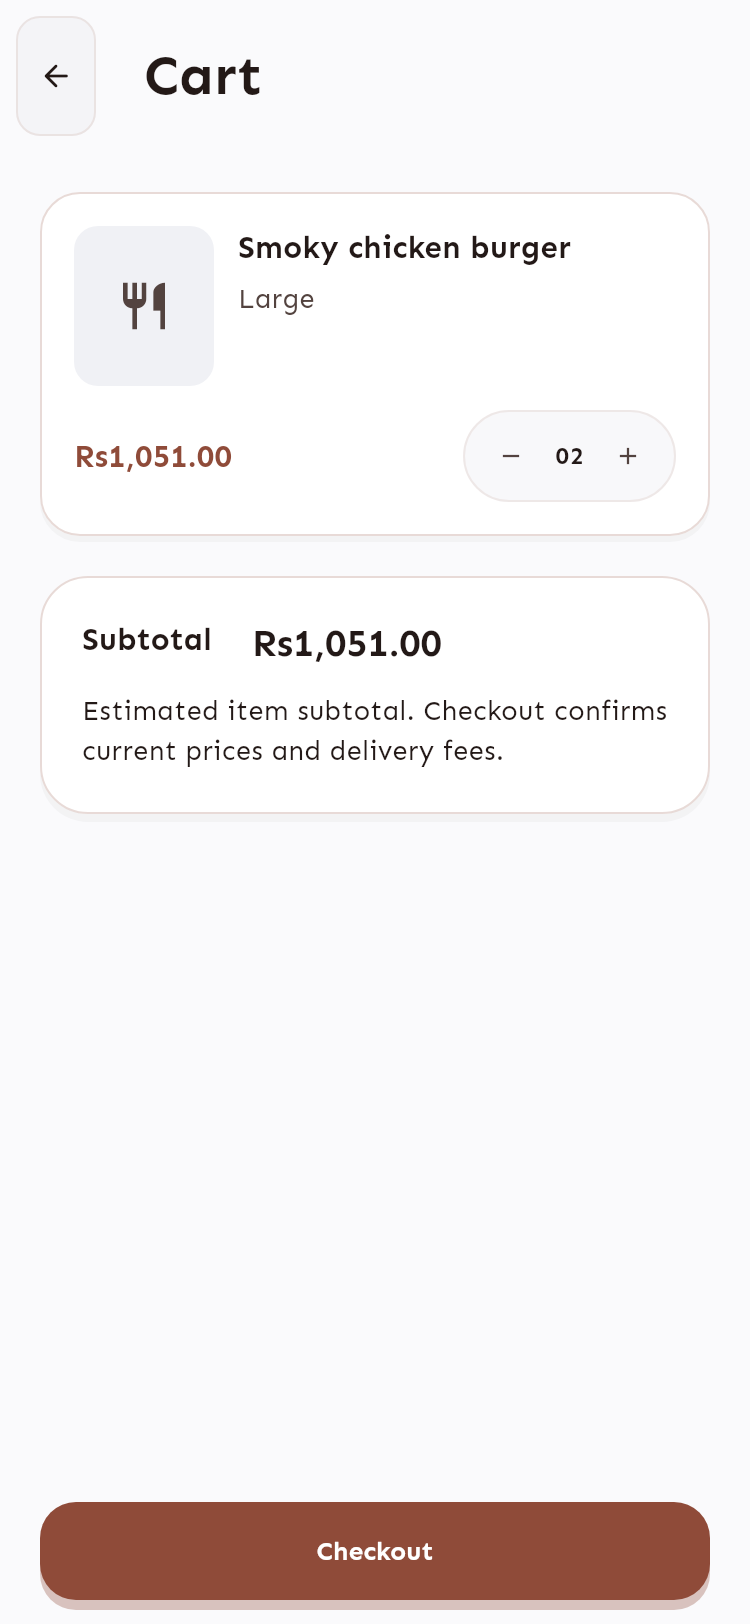
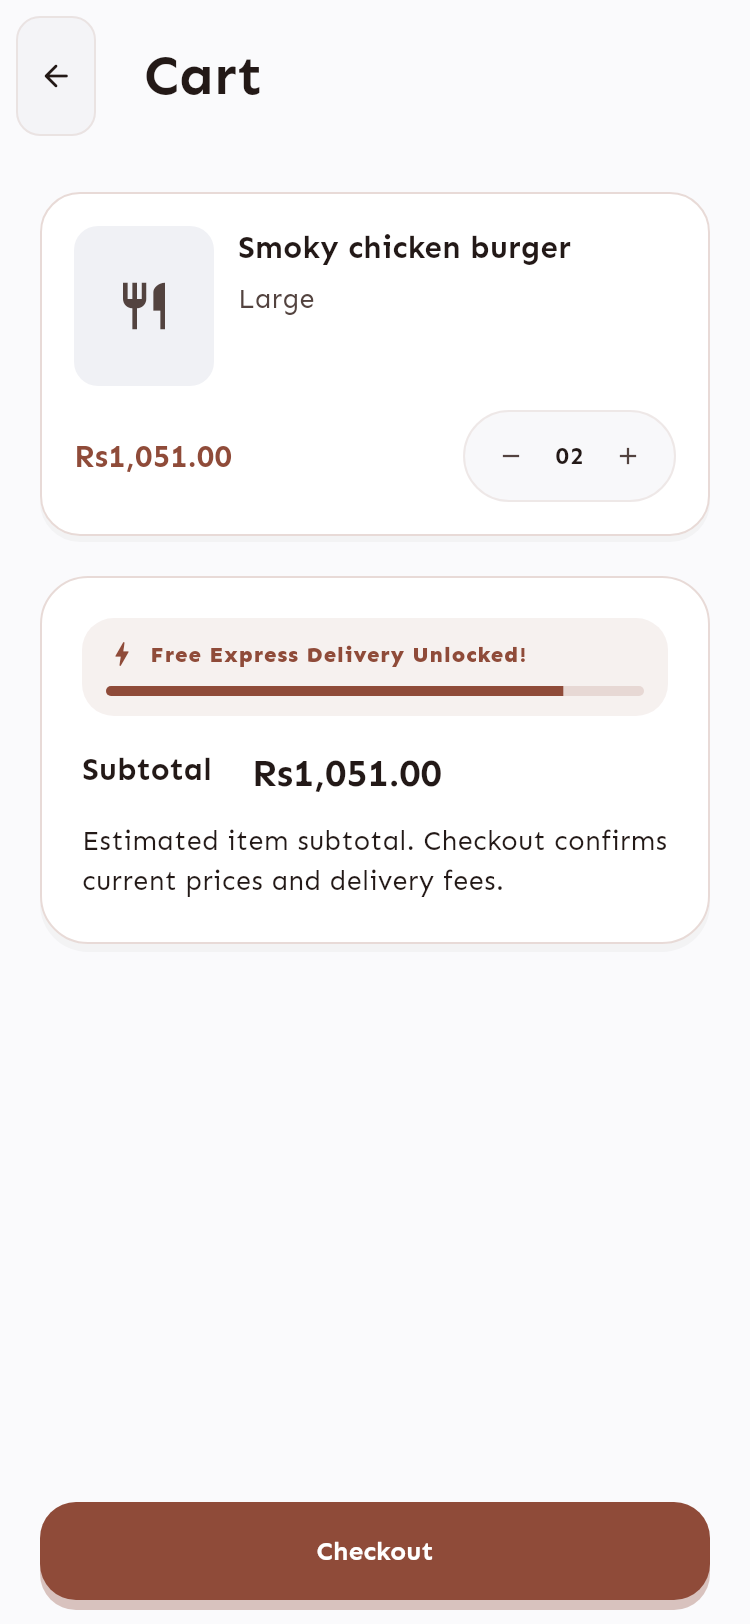
feat(cart-and-reviews): add free delivery progress meter, star rating squish-and-pop bounce, and dynamic emotion reaction badges

Changed region(s): [[0.092, 0.3695, 0.8893, 0.5542]]

diff --git a/lib/features/reviews/widgets/star_rating_bar.dart b/lib/features/reviews/widgets/star_rating_bar.dart
@@ -2,7 +2,7 @@ import 'package:bite_food_delivery/core/extensions/theme_extensions.dart';
 import 'package:material_ui/material_ui.dart';
 import 'package:flutter_screenutil/flutter_screenutil.dart';
 
-class StarRatingBar extends StatelessWidget {
+class StarRatingBar extends StatefulWidget {
   final double rating;
   final ValueChanged<double>? onRatingChanged;
   final double? size;
@@ -21,19 +21,49 @@ class StarRatingBar extends StatelessWidget {
   });
 
   @override
+  State<StarRatingBar> createState() => _StarRatingBarState();
+}
+
+class _StarRatingBarState extends State<StarRatingBar>
+    with SingleTickerProviderStateMixin {
+  late final AnimationController _bounceController;
+  int _lastTappedIndex = -1;
+
+  @override
+  void initState() {
+    super.initState();
+    _bounceController = AnimationController(
+      vsync: this,
+      duration: const Duration(milliseconds: 300),
+    );
+  }
+
+  @override
+  void dispose() {
+    _bounceController.dispose();
+    super.dispose();
+  }
+
+  void _handleTap(int index, double starValue) {
+    setState(() => _lastTappedIndex = index);
+    _bounceController.forward(from: 0.0);
+    widget.onRatingChanged?.call(starValue);
+  }
+
+  @override
   Widget build(BuildContext context) {
     final colors = context.appColors;
-    final starSize = size ?? 28.r;
-    final effectiveActiveColor = activeColor ?? colors.primary;
+    final starSize = widget.size ?? 28.r;
+    final effectiveActiveColor = widget.activeColor ?? const Color(0xFFFFB800);
     final effectiveInactiveColor =
-        inactiveColor ?? colors.outlineVariant.withValues(alpha: 0.6);
+        widget.inactiveColor ?? colors.outlineVariant.withValues(alpha: 0.6);
 
     return Row(
       mainAxisSize: MainAxisSize.min,
       children: List.generate(5, (index) {
         final starValue = index + 1.0;
-        final isFilled = rating >= starValue;
-        final isHalf = !isFilled && rating >= (starValue - 0.5);
+        final isFilled = widget.rating >= starValue;
+        final isHalf = !isFilled && widget.rating >= (starValue - 0.5);
 
         final icon = isFilled
             ? Icons.star_rounded
@@ -46,13 +76,26 @@ class StarRatingBar extends StatelessWidget {
             : effectiveInactiveColor;
 
         return Padding(
-          padding: EdgeInsets.symmetric(horizontal: (spacing / 2).r),
+          padding: EdgeInsets.symmetric(horizontal: (widget.spacing / 2).r),
           child: InkResponse(
-            onTap: onRatingChanged != null
-                ? () => onRatingChanged!(starValue)
+            onTap: widget.onRatingChanged != null
+                ? () => _handleTap(index, starValue)
                 : null,
             radius: starSize,
-            child: Icon(icon, size: starSize, color: color),
+            child: AnimatedBuilder(
+              animation: _bounceController,
+              builder: (context, child) {
+                final isTarget = index == _lastTappedIndex;
+                final scale = isTarget
+                    ? 1.0 + (0.28 * (1.0 - _bounceController.value))
+                    : 1.0;
+                return Transform.scale(
+                  scale: scale,
+                  child: child,
+                );
+              },
+              child: Icon(icon, size: starSize, color: color),
+            ),
           ),
         );
       }),

diff --git a/lib/features/reviews/sections/review_stars_section.dart b/lib/features/reviews/sections/review_stars_section.dart
@@ -13,6 +13,14 @@ import 'package:flutter_screenutil/flutter_screenutil.dart';
 class ReviewStarsSection extends StatelessWidget {
   const ReviewStarsSection({super.key});
 
+  String _ratingReaction(double rating) {
+    if (rating >= 4.8) return '🤩 Exceptional!';
+    if (rating >= 4.0) return '😋 Delicious!';
+    if (rating >= 3.0) return '😐 Pretty Good';
+    if (rating >= 2.0) return '😕 Could Be Better';
+    return '😡 Disappointing';
+  }
+
   @override
   Widget build(BuildContext context) {
     final colors = context.appColors;
@@ -56,6 +64,28 @@ class ReviewStarsSection extends StatelessWidget {
                           fontWeight: FontWeight.bold,
                         ),
                       ),
+                      6.verticalSpace,
+                      Container(
+                        padding: EdgeInsets.symmetric(
+                          horizontal: 10.w,
+                          vertical: 4.h,
+                        ).r,
+                        decoration: BoxDecoration(
+                          color: colors.primary.withValues(alpha: 0.1),
+                          borderRadius: BorderRadius.circular(12).r,
+                        ),
+                        child: AnimatedSwitcher(
+                          duration: const Duration(milliseconds: 200),
+                          child: AppText(
+                            _ratingReaction(state.orderRating),
+                            key: ValueKey(state.orderRating),
+                            style: AppTextStyles.labelSmall(context).copyWith(
+                              color: colors.primary,
+                              fontWeight: FontWeight.w700,
+                            ),
+                          ),
+                        ),
+                      ),
                     ],
                   ),
                 ),
@@ -87,6 +117,28 @@ class ReviewStarsSection extends StatelessWidget {
                         style: AppTextStyles.labelLarge(context).copyWith(
                           color: colors.primary,
                           fontWeight: FontWeight.bold,
+                        ),
+                      ),
+                      6.verticalSpace,
+                      Container(
+                        padding: EdgeInsets.symmetric(
+                          horizontal: 10.w,
+                          vertical: 4.h,
+                        ).r,
+                        decoration: BoxDecoration(
+                          color: colors.primary.withValues(alpha: 0.1),
+                          borderRadius: BorderRadius.circular(12).r,
+                        ),
+                        child: AnimatedSwitcher(
+                          duration: const Duration(milliseconds: 200),
+                          child: AppText(
+                            _ratingReaction(state.restaurantRating),
+                            key: ValueKey(state.restaurantRating),
+                            style: AppTextStyles.labelSmall(context).copyWith(
+                              color: colors.primary,
+                              fontWeight: FontWeight.w700,
+                            ),
+                          ),
                         ),
                       ),
                     ],

diff --git a/lib/features/cart/widgets/cart_summary_card.dart b/lib/features/cart/widgets/cart_summary_card.dart
@@ -12,6 +12,7 @@ class CartSummaryCard extends StatelessWidget {
     required this.note,
   });
   final String label, amount, note;
+
   @override
   Widget build(BuildContext context) => Container(
     padding: const EdgeInsets.all(20).r,
@@ -33,6 +34,54 @@ class CartSummaryCard extends StatelessWidget {
     child: Column(
       crossAxisAlignment: CrossAxisAlignment.start,
       children: [
+        // Free Delivery Unlock Progress Banner
+        Container(
+          padding: EdgeInsets.symmetric(horizontal: 12.w, vertical: 10.h).r,
+          decoration: BoxDecoration(
+            color: context.appColors.primary.withValues(alpha: 0.08),
+            borderRadius: BorderRadius.circular(16).r,
+          ),
+          child: Column(
+            crossAxisAlignment: CrossAxisAlignment.start,
+            children: [
+              Row(
+                children: [
+                  Icon(
+                    Icons.bolt_rounded,
+                    size: 16.r,
+                    color: context.appColors.primary,
+                  ),
+                  6.horizontalSpace,
+                  Flexible(
+                    child: AppText(
+                      'Free Express Delivery Unlocked!',
+                      style: AppTextStyles.labelSmall(context).copyWith(
+                        fontWeight: FontWeight.w800,
+                        color: context.appColors.primary,
+                        fontSize: 11.sp,
+                      ),
+                      maxLines: 1,
+                      overflow: TextOverflow.ellipsis,
+                    ),
+                  ),
+                ],
+              ),
+              8.verticalSpace,
+              ClipRRect(
+                borderRadius: BorderRadius.circular(6).r,
+                child: LinearProgressIndicator(
+                  value: 0.85,
+                  minHeight: 5.h,
+                  backgroundColor:
+                      context.appColors.primary.withValues(alpha: 0.15),
+                  valueColor:
+                      AlwaysStoppedAnimation(context.appColors.primary),
+                ),
+              ),
+            ],
+          ),
+        ),
+        16.verticalSpace,
         Wrap(
           spacing: 20.r,
           runSpacing: 8.r,

diff --git a/lib/widgets/app_confetti_celebration.dart b/lib/widgets/app_confetti_celebration.dart
@@ -151,3 +151,4 @@ class _ConfettiPainter extends CustomPainter {
   bool shouldRepaint(covariant _ConfettiPainter oldDelegate) =>
       oldDelegate.progress != progress;
 }
+

diff --git a/lib/features/orders/widgets/track_order_radar_pill.dart b/lib/features/orders/widgets/track_order_radar_pill.dart
@@ -155,3 +155,4 @@ class _TrackOrderRadarPillState extends State<TrackOrderRadarPill>
     );
   }
 }
+

diff --git a/lib/widgets/app_fly_to_cart.dart b/lib/widgets/app_fly_to_cart.dart
@@ -211,3 +211,4 @@ class _FlyToCartOverlayState extends State<_FlyToCartOverlay>
     );
   }
 }
+
